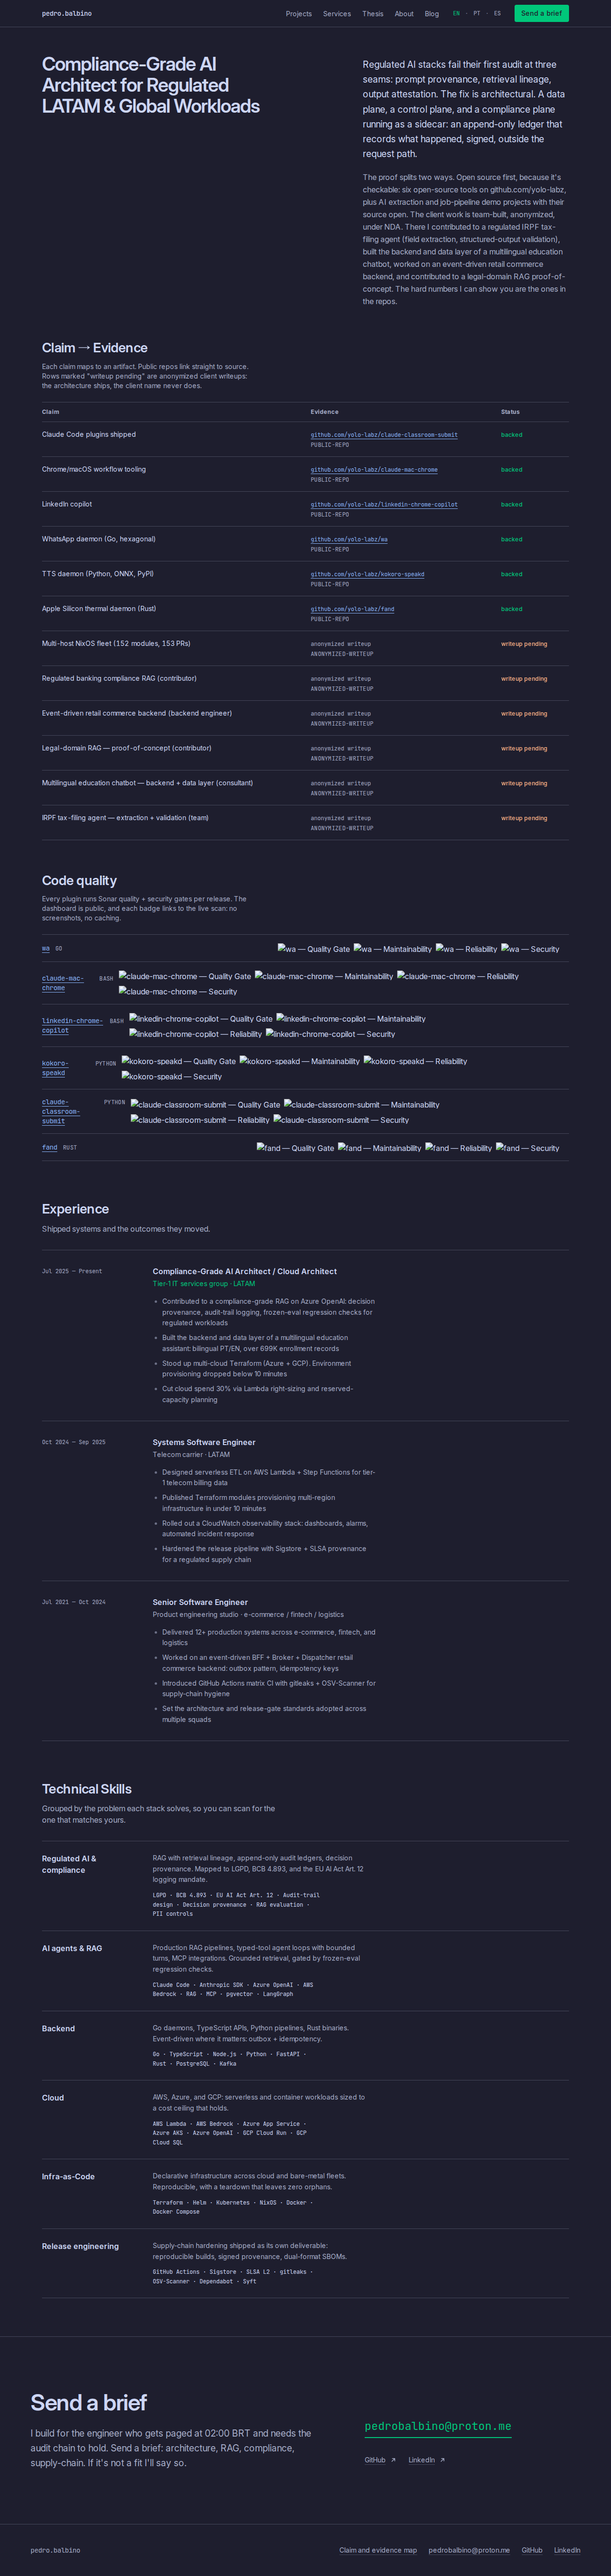
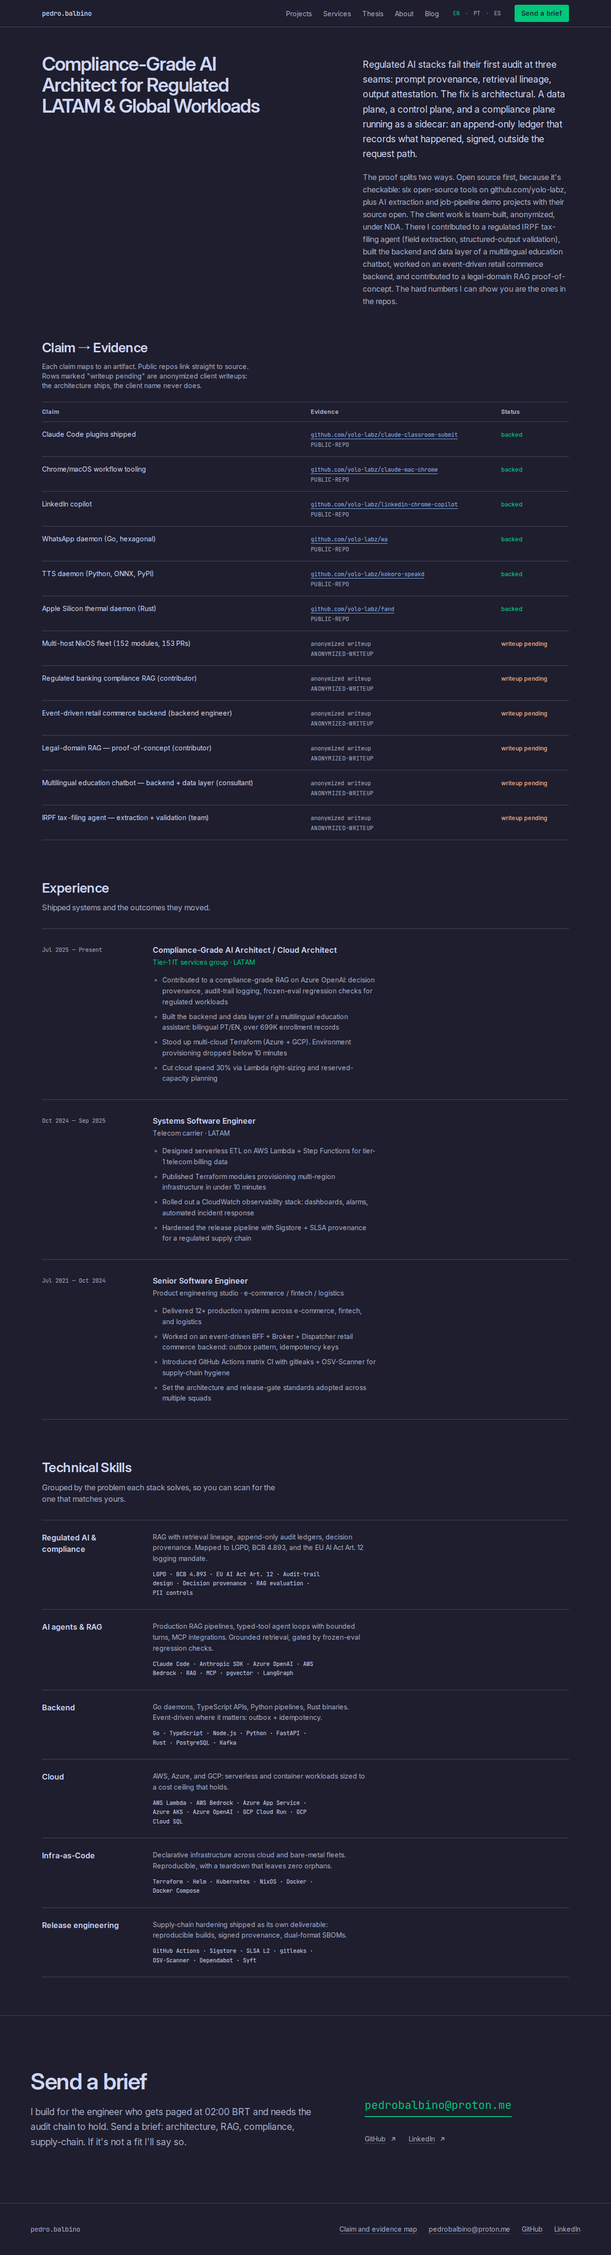
fix(web): apply post-merge live critique (#168)
Sticky case-file aside (self-start), text-wrap pretty on dd/li, Inter detector waiver at repo root, and drop the /about Sonar badges: all six projects are private, so every badge read 'Project has not been found' and the 'dashboard is public' copy was false.

diff --git a/apps/web/src/components/project/project-detail.tsx b/apps/web/src/components/project/project-detail.tsx
@@ -51,54 +51,52 @@ export function ProjectDetail({ project }: ProjectDetailProps) {
 				</header>
 
 				<div className="mt-14 grid gap-12 border-t border-border pt-10 lg:grid-cols-12">
-					<aside className="lg:col-span-4">
-						<div className="lg:sticky lg:top-24">
-							{entry && (
-								<p
-									className={`text-sm font-medium ${entry.kind === "caseFile" ? "text-warn" : "text-link"}`}
-								>
-									{index(entry.kind)}
-								</p>
-							)}
-							<dl className="mt-4 border-t border-border">
-								{project.metrics.map((metric) => (
-									<div key={metric.label} className="border-b border-border py-3">
-										<dt className="text-xs text-text-muted">{metric.label}</dt>
-										<dd className="mt-1 text-sm text-text">{metric.value}</dd>
-									</div>
-								))}
-								<div className="border-b border-border py-3">
-									<dt className="text-xs text-text-muted">{ui("stack")}</dt>
-									<dd className="mt-1 font-mono text-xs leading-relaxed text-text">
-										{project.techStack.map((tech) => tech.name).join(" · ")}
-									</dd>
+					<aside className="lg:sticky lg:top-20 lg:col-span-4 lg:self-start">
+						{entry && (
+							<p
+								className={`text-sm font-medium ${entry.kind === "caseFile" ? "text-warn" : "text-link"}`}
+							>
+								{index(entry.kind)}
+							</p>
+						)}
+						<dl className="mt-4 border-t border-border">
+							{project.metrics.map((metric) => (
+								<div key={metric.label} className="border-b border-border py-3">
+									<dt className="text-xs text-text-muted">{metric.label}</dt>
+									<dd className="mt-1 text-sm text-text">{metric.value}</dd>
 								</div>
-							</dl>
-							{(project.links.demo || project.links.source) && (
-								<ul className="mt-4 flex flex-wrap gap-x-6 text-sm">
-									{project.links.source && (
-										<li>
-											<a
-												href={project.links.source}
-												className="inline-flex min-h-11 items-center gap-2 text-link underline underline-offset-4"
-											>
-												{ui("viewSource")} <ArrowUpRight />
-											</a>
-										</li>
-									)}
-									{project.links.demo && (
-										<li>
-											<a
-												href={project.links.demo}
-												className="inline-flex min-h-11 items-center gap-2 text-link underline underline-offset-4"
-											>
-												{ui("liveDemo")} <ArrowUpRight />
-											</a>
-										</li>
-									)}
-								</ul>
-							)}
-						</div>
+							))}
+							<div className="border-b border-border py-3">
+								<dt className="text-xs text-text-muted">{ui("stack")}</dt>
+								<dd className="mt-1 font-mono text-xs leading-relaxed text-text">
+									{project.techStack.map((tech) => tech.name).join(" · ")}
+								</dd>
+							</div>
+						</dl>
+						{(project.links.demo || project.links.source) && (
+							<ul className="mt-4 flex flex-wrap gap-x-6 text-sm">
+								{project.links.source && (
+									<li>
+										<a
+											href={project.links.source}
+											className="inline-flex min-h-11 items-center gap-2 text-link underline underline-offset-4"
+										>
+											{ui("viewSource")} <ArrowUpRight />
+										</a>
+									</li>
+								)}
+								{project.links.demo && (
+									<li>
+										<a
+											href={project.links.demo}
+											className="inline-flex min-h-11 items-center gap-2 text-link underline underline-offset-4"
+										>
+											{ui("liveDemo")} <ArrowUpRight />
+										</a>
+									</li>
+								)}
+							</ul>
+						)}
 					</aside>
 
 					<div className="min-w-0 space-y-14 lg:col-span-8">

diff --git a/apps/web/src/app/[locale]/about/page.tsx b/apps/web/src/app/[locale]/about/page.tsx
@@ -93,38 +93,6 @@ const claimEvidenceMap: ClaimEvidence[] = [
 	},
 ];
 
-interface SonarRepo {
-	slug: string;
-	label: string;
-	language: string;
-}
-
-const SONAR_HOST = "https://sonarqube.home301server.com.br";
-
-const sonarRepos: SonarRepo[] = [
-	{ slug: "wa", label: "wa", language: "Go" },
-	{ slug: "claude-mac-chrome", label: "claude-mac-chrome", language: "Bash" },
-	{ slug: "linkedin-chrome-copilot", label: "linkedin-chrome-copilot", language: "Bash" },
-	{ slug: "kokoro-speakd", label: "kokoro-speakd", language: "Python" },
-	{ slug: "claude-classroom-submit", label: "claude-classroom-submit", language: "Python" },
-	{ slug: "fand", label: "fand", language: "Rust" },
-];
-
-const sonarMetrics: Array<{ key: string; alt: string }> = [
-	{ key: "alert_status", alt: "Quality Gate" },
-	{ key: "sqale_rating", alt: "Maintainability" },
-	{ key: "reliability_rating", alt: "Reliability" },
-	{ key: "security_rating", alt: "Security" },
-];
-
-function sonarBadgeUrl(slug: string, metric: string) {
-	return `${SONAR_HOST}/api/project_badges/measure?project=yolo-labz_${slug}&metric=${metric}`;
-}
-
-function sonarDashboardUrl(slug: string) {
-	return `${SONAR_HOST}/dashboard?id=yolo-labz_${slug}`;
-}
-
 function statusPill(status: ClaimStatus, labels: { backed: string; pending: string }) {
 	if (status === "backed") {
 		return (
@@ -218,59 +186,6 @@ export default async function AboutPage({ params }: { params: Promise<{ locale: 
 								</tbody>
 							</table>
 						</div>
-					</div>
-				</div>
-
-				<div className="mt-16 space-y-6">
-					<div>
-						<h2 className="text-step-3 font-semibold tracking-[-0.02em]">
-							{t("codeQualityHeading")}
-						</h2>
-						<p className="mt-2 max-w-[50ch] text-sm text-text-muted">{t("codeQualityIntro")}</p>
-					</div>
-
-					<div className="border-y border-border">
-						<ul className="divide-y divide-border">
-							{sonarRepos.map((repo) => (
-								<li
-									key={repo.slug}
-									className="flex flex-col gap-3 py-4 pr-5 sm:flex-row sm:items-center sm:justify-between"
-								>
-									<div className="flex items-baseline gap-3">
-										<a
-											href={sonarDashboardUrl(repo.slug)}
-											target="_blank"
-											rel="noopener noreferrer"
-											className="font-mono text-sm text-link underline underline-offset-4"
-										>
-											{repo.label}
-										</a>
-										<span className="font-mono text-xs uppercase tracking-wide text-text-muted">
-											{repo.language}
-										</span>
-									</div>
-									<div className="flex flex-wrap items-center gap-2">
-										{sonarMetrics.map((m) => (
-											<a
-												key={m.key}
-												href={sonarDashboardUrl(repo.slug)}
-												target="_blank"
-												rel="noopener noreferrer"
-												aria-label={`${repo.label} ${m.alt}`}
-												className="inline-flex min-h-6 items-center"
-											>
-												<img
-													src={sonarBadgeUrl(repo.slug, m.key)}
-													alt={`${repo.label} — ${m.alt}`}
-													loading="lazy"
-													className="h-5"
-												/>
-											</a>
-										))}
-									</div>
-								</li>
-							))}
-						</ul>
 					</div>
 				</div>
 

diff --git a/apps/web/src/app/globals.css b/apps/web/src/app/globals.css
@@ -78,7 +78,9 @@ time {
 
 /* Running text: no one-word last lines, and one measure everywhere. Inter's ch
    (the "0" advance) is wider than its average glyph, so 50ch sets ~70 characters. */
-p {
+p,
+dd,
+li {
 	text-wrap: pretty;
 }
 main p,

diff --git a/docs/evidence/remodel-2026-10/REPORT.md b/docs/evidence/remodel-2026-10/REPORT.md
@@ -112,15 +112,19 @@ The responses:
 | `max-w-[65ch]` measured 86-88 characters | One global measure: `main p, main dd, .list-disc > li` at 50ch, with the same value in the classes. Re-measured at 1280 on /en, the case study, /about and /thesis: no prose block exceeds 75 characters (`main p` max 72). |
 | Case-study column overflow | The facts column was already `lg:sticky lg:top-24`. Verified: after a 1200px scroll it holds at y = 96. The static first-viewport rule flags the long right column by design; the decision record is the first thing in it. |
 | Hyphen gaps | Confirmed and caused by this PR: global `tabular-nums` made Inter swap punctuation to tabular widths. Now scoped to `table, time`; the mobile render shows normal hyphens. |
-| `overused-font` (Inter) | Waived as `ignoreValues` in `apps/web/.impeccable/config.json`, with the reason recorded in DESIGN.md (brand-locked). |
+| `overused-font` (Inter) | Waived as `ignoreValues` in `.impeccable/config.json`, with the reason recorded in DESIGN.md (brand-locked). |
 | Stragglers | `p { text-wrap: pretty }`. |
 | Target size under 24px | Locale buttons and Sonar badge links now have `min-h-6` (and `min-w-6`). |
 | Mascot vs. thesis | Answered in `directions.md`. |
 
-Adjacent debt found, not fixed here: /about "Code quality" shows SonarQube badges that
-render "Project has not been found" for several yolo-labz projects (badge keys or
-public visibility on the Sonar server). This predates the PR; it needs a server-side fix
-or the row hidden, and is logged in the Brain Storm save-state.
+Post-merge follow-up (PR #168, from the live critique):
+- The case-file sidebar is the sticky grid item (`lg:sticky lg:top-20 lg:self-start`).
+- `text-wrap: pretty` now also covers `dd` and `li`.
+- The Inter ignore moved to the repo-root `.impeccable/config.json`.
+- The /about "Code quality" section is removed. All six SonarQube projects exist but are
+  **private** (checked through `api/projects/search`), so every badge rendered "Project has
+  not been found", and the copy's "the dashboard is public" was false. To restore it, make
+  the projects public in Sonar, then revert this hunk.
 
  `/<locale>/<unknown>` returns status 404 but the
 HTML is Next's `__next_error__` shell, and the localized 404 renders only after

diff --git a/DESIGN.md b/DESIGN.md
@@ -111,7 +111,7 @@ Under `prefers-contrast: more`, muted text takes the body colour and rules take 
 ## Typography
 
 Inter is a deliberate brand choice, locked in `CLAUDE.md` and the vault identity, not a
-default; the detector's `overused-font` rule is waived in `apps/web/.impeccable/config.json`
+default; the detector's `overused-font` rule is waived for `inter` in the repo-root `.impeccable/config.json`
 for that reason. The distinct voice is the split: Inter for text, JetBrains Mono for data: repository names, stacks, the e-mail address,
 periods. Inter loads with its `opsz` axis and `font-optical-sizing: auto`, so headings
 get the display cut. Sizes come from one fluid modular scale, `text-step-1` … `-6`:
